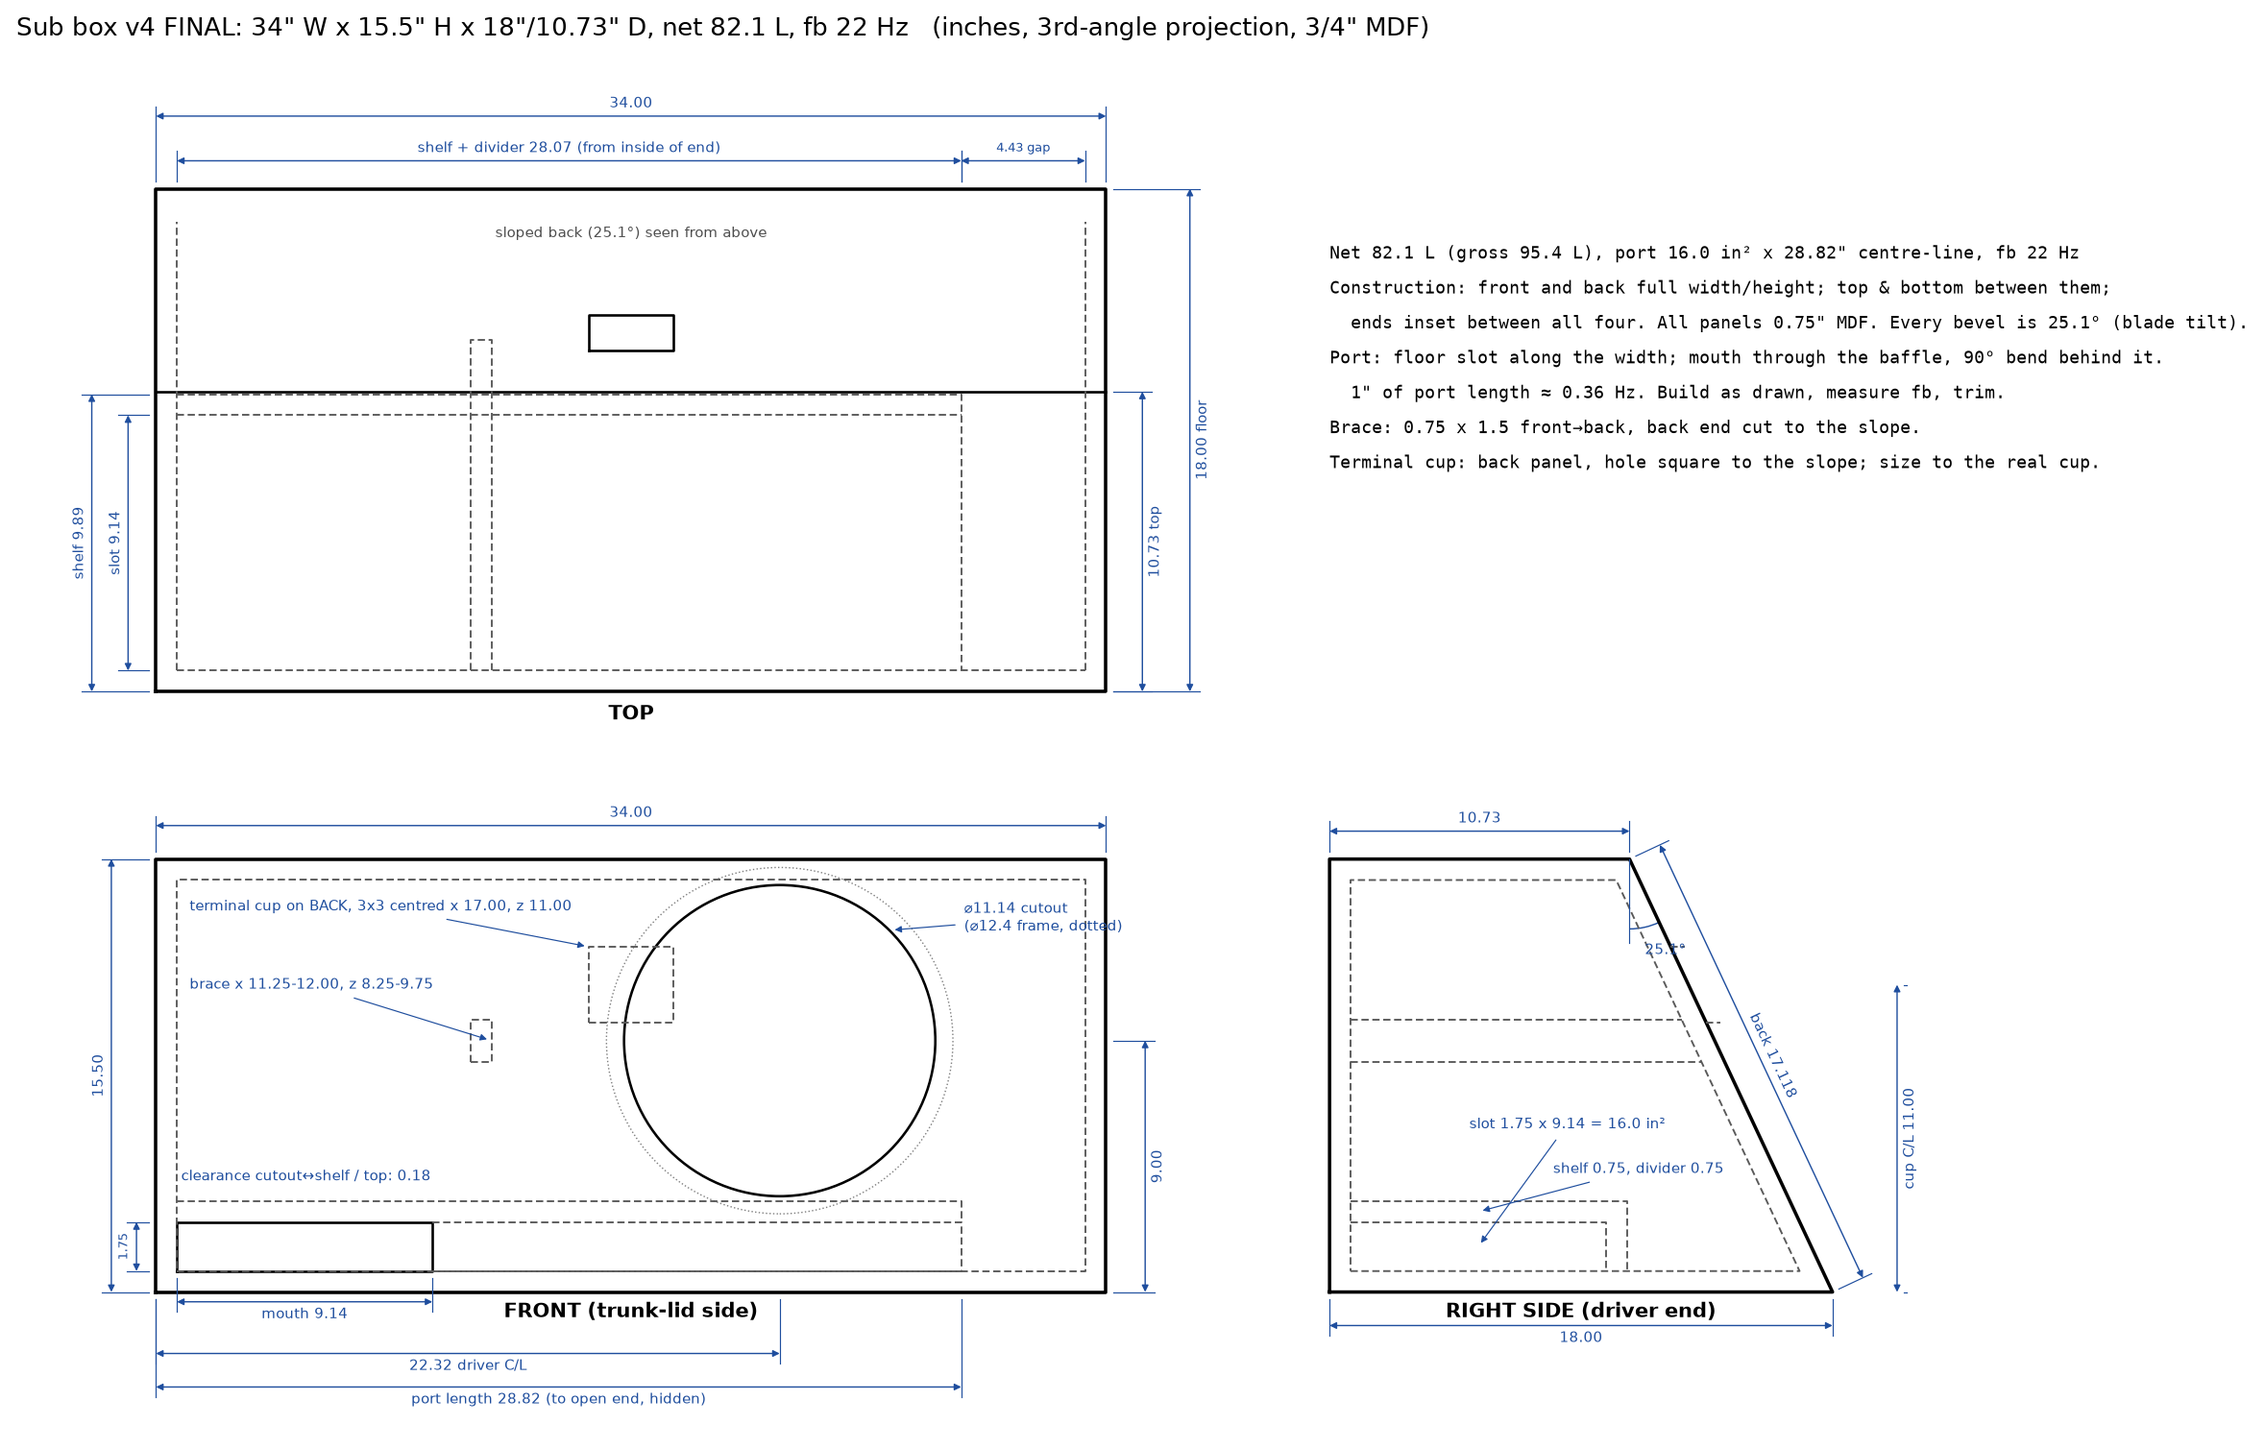
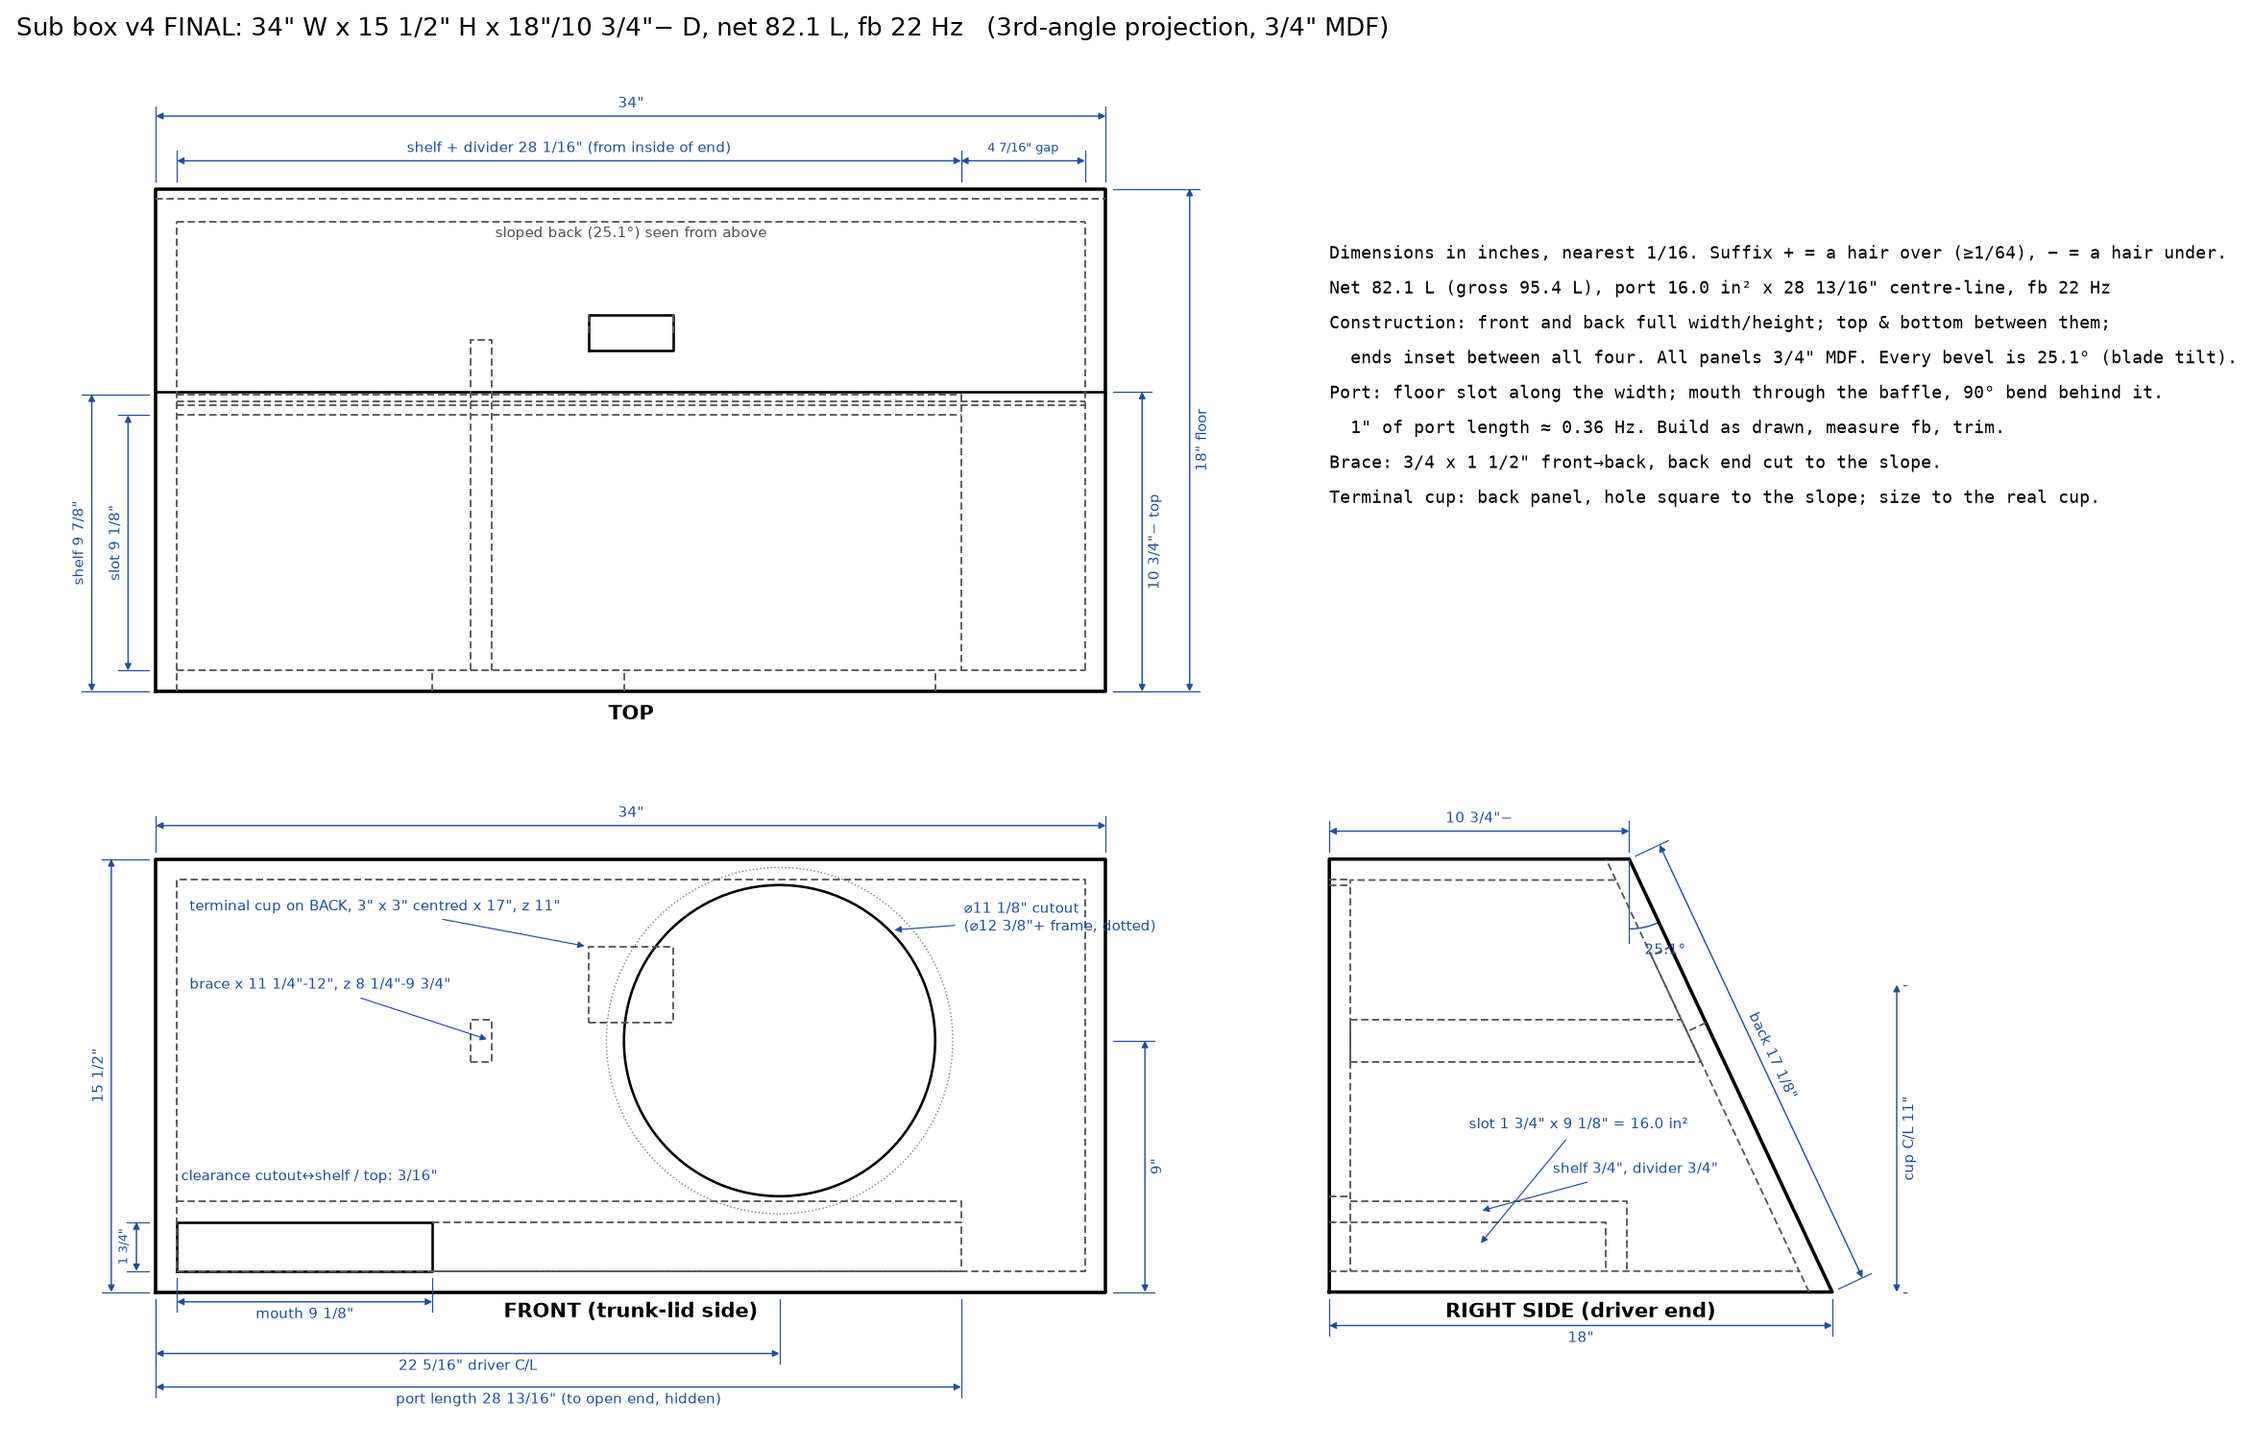
Drawings: fractional inches (nearest 1/16, +/- flags), more hidden lines

diff --git a/box_drawing.py b/box_drawing.py
@@ -3,9 +3,9 @@
 
     python3 box_drawing.py   -> cad/box_v4_34x15.5in_ortho.{png,pdf}  (3rd-angle: front, top, right side)
                                 cad/box_v4_34x15.5in_parts.{png,pdf}  (every cut part, dimensioned)
-Inches. Hidden edges dashed. Front view = trunk-lid side, x = 0 at the port-mouth end (left).
+Inches as fractions (nearest 1/16, +/- flags >= 1/64 rounding). Hidden edges dashed. Front view = trunk-lid side, x = 0 at the port-mouth end (left).
 """
-import importlib.util, math, os
+import importlib.util, math, os, re
 import matplotlib; matplotlib.use('Agg')
 import matplotlib.pyplot as plt
 from matplotlib.patches import Circle, Arc
@@ -39,9 +39,21 @@ def dim(ax, a, b, off, txt=None, fs=FS):
     ax.annotate('', p, q, arrowprops=dict(arrowstyle='<|-|>', color=DIM, lw=0.6, mutation_scale=6, shrinkA=0, shrinkB=0))
     ang = math.degrees(math.atan2(uy, ux))
     if ang > 90.1 or ang < -89.9: ang -= 180
-    t = txt or f'{L:.2f}'
+    t = txt or f'{fr(L)}'
     ax.text((p[0]+q[0])/2 + nx*0.45*s, (p[1]+q[1])/2 + ny*0.45*s, t, rotation=ang, color=DIM, fontsize=fs,
             ha='center', va='center', bbox=dict(fc='white', ec='none', pad=0.3))
+
+def fr(v, den=16):
+    """Inches as a fraction to the nearest 1/16, with + / - if the true value is >= 1/64 off."""
+    n = round(v * den); err = v - n / den
+    w, r = divmod(abs(n), den); dd = den
+    while r and r % 2 == 0: r //= 2; dd //= 2
+    s = ('-' if n < 0 else '') + (f'{w} {r}/{dd}' if w and r else f'{r}/{dd}' if r else f'{w}') + '"'
+    return s + ('+' if err >= 1/64 else '−' if err <= -1/64 else '')
+
+def F(text):
+    """Convert the decimal inch numbers (2+ decimals) in a note to fractions."""
+    return re.sub(r'\d+\.\d{2,}', lambda m: fr(float(m.group())), text)
 
 def note(ax, xy, xyt, txt, fs=FS):
     ax.annotate(txt, xy, xyt, color=DIM, fontsize=fs, ha='left', va='center',
@@ -55,8 +67,8 @@ def setup(ax, title):
 # ---------------------------------------------------------------- orthographic sheet
 def ortho():
     fig, ax = plt.subplots(figsize=(17, 11))
-    setup(ax, f'Sub box v4 FINAL: {W:g}" W x {H:g}" H x {g.D_BOT:g}"/{g.D_TOP:.2f}" D, net {d["net_L"]:.1f} L, '
-              f'fb {g.FB:g} Hz   (inches, 3rd-angle projection, 3/4" MDF)')
+    setup(ax, f'Sub box v4 FINAL: {fr(W)} W x {fr(H)} H x {fr(g.D_BOT)}/{fr(g.D_TOP)} D, net {d["net_L"]:.1f} L, '
+              f'fb {g.FB:g} Hz   (3rd-angle projection, 3/4" MDF)')
     tz = (g.TERM[1] / 2) * math.cos(TH)                     # half-height of the cup hole, projected vertically
     cz0, cz1 = g.TERM_Z - tz, g.TERM_Z + tz
     cx0, cx1 = W/2 - g.TERM[0]/2, W/2 + g.TERM[0]/2
@@ -75,16 +87,16 @@ def ortho():
     ax.text(W/2, -0.9, 'FRONT (trunk-lid side)', ha='center', fontsize=9, weight='bold')
     dim(ax, (0, H), (W, H), 1.2)
     dim(ax, (0, 0), (0, H), 1.6)
-    dim(ax, (0, 0), (DX, 0), -2.2, f'{DX:.2f} driver C/L')
-    dim(ax, (W, 0), (W, DZ), -1.4, f'{DZ:.2f}')
-    dim(ax, (T, T), (T + CW, T), -1.1, f'mouth {CW:.2f}')
-    dim(ax, (0, T), (0, T + CH), 0.7, f'{CH:.2f}', fs=5.5)
-    dim(ax, (0, 0), (XE, 0), -3.4, f'port length {XE:.2f} (to open end, hidden)')
+    dim(ax, (0, 0), (DX, 0), -2.2, f'{fr(DX)} driver C/L')
+    dim(ax, (W, 0), (W, DZ), -1.4, f'{fr(DZ)}')
+    dim(ax, (T, T), (T + CW, T), -1.1, f'mouth {fr(CW)}')
+    dim(ax, (0, T), (0, T + CH), 0.7, f'{fr(CH)}', fs=5.5)
+    dim(ax, (0, 0), (XE, 0), -3.4, f'port length {fr(XE)} (to open end, hidden)')
     note(ax, (DX + g.DRV_CUT/2*0.71, DZ + g.DRV_CUT/2*0.71), (DX + 6.6, DZ + 4.4),
-         f'⌀{g.DRV_CUT:.2f} cutout\n(⌀{g.DRV_OD:.1f} frame, dotted)')
-    note(ax, (bx1, (bz0 + bz1)/2), (1.2, 11.0), f'brace x {bx0:.2f}-{bx1:.2f}, z {bz0:.2f}-{bz1:.2f}')
-    note(ax, (cx0, cz1), (1.2, 13.8), f'terminal cup on BACK, {g.TERM[0]:.0f}x{g.TERM[1]:.0f} centred x {W/2:.2f}, z {g.TERM_Z:.2f}')
-    ax.text(0.9, 4.0, f'clearance cutout↔shelf / top: {((H - T) - (T + CH + T) - g.DRV_CUT)/2:.2f}', fontsize=FS, color=DIM)
+         f'⌀{fr(g.DRV_CUT)} cutout\n(⌀{fr(g.DRV_OD)} frame, dotted)')
+    note(ax, (bx1, (bz0 + bz1)/2), (1.2, 11.0), f'brace x {fr(bx0)}-{fr(bx1)}, z {fr(bz0)}-{fr(bz1)}')
+    note(ax, (cx0, cz1), (1.2, 13.8), f'terminal cup on BACK, {fr(g.TERM[0])} x {fr(g.TERM[1])} centred x {fr(W/2)}, z {fr(g.TERM_Z)}')
+    ax.text(0.9, 4.0, f'clearance cutout↔shelf / top: {fr(((H - T) - (T + CH + T) - g.DRV_CUT)/2)}', fontsize=FS, color=DIM)
 
     # ---- TOP view (x, y) above the front view, front edge nearest it
     oy = H + 6.0
@@ -97,14 +109,23 @@ def ortho():
     line(ax, [T_(T, T + CW), T_(XE, T + CW)], hidden=True)
     line(ax, [T_(bx0, T), T_(bx0, yi(bz1)), T_(bx1, yi(bz1)), T_(bx1, T)], hidden=True)
     line(ax, [T_(cx0, yo(cz1)), T_(cx1, yo(cz1)), T_(cx1, yo(cz0)), T_(cx0, yo(cz0))], close=True)   # cup on the slope
+    line(ax, [T_(T, 0), T_(T, T)], hidden=True); line(ax, [T_(T + CW, 0), T_(T + CW, T)], hidden=True)        # mouth through the baffle
+    line(ax, [T_(DX - g.DRV_CUT/2, 0), T_(DX - g.DRV_CUT/2, T)], hidden=True)                                    # driver cutout
+    line(ax, [T_(DX + g.DRV_CUT/2, 0), T_(DX + g.DRV_CUT/2, T)], hidden=True)
+    line(ax, [T_(T, yi(H - T)), T_(W - T, yi(H - T))], hidden=True)                                             # back inner face at the top panel
+    line(ax, [T_(T, yi(T)), T_(W - T, yi(T))], hidden=True)                                                     # back inner face at the floor
+    line(ax, [T_(T, g.D_TOP - T*math.tan(TH)), T_(W - T, g.D_TOP - T*math.tan(TH))], hidden=True)              # top panel underside edge
+    line(ax, [T_(0, yo(T)), T_(W, yo(T))], hidden=True)                                                          # bottom panel / back joint
+    for xx in (cx0, cx1):                                                                                         # cup hole walls through the back
+        line(ax, [T_(xx, yo(cz0)), T_(xx, yo(cz0) - T*math.cos(TH))], hidden=True)
     ax.text(W/2, oy - 1.0, 'TOP', ha='center', fontsize=9, weight='bold')
     ax.text(W/2, oy + (g.D_TOP + g.D_BOT)/2 + 1.9, 'sloped back (25.1°) seen from above', ha='center', fontsize=FS, color='0.3')
-    dim(ax, T_(W, 0), T_(W, g.D_TOP), -1.3, f'{g.D_TOP:.2f} top')
-    dim(ax, T_(W, 0), T_(W, g.D_BOT), -3.0, f'{g.D_BOT:.2f} floor')
-    dim(ax, T_(0, T), T_(0, T + CW), 1.0, f'slot {CW:.2f}')
-    dim(ax, T_(0, 0), T_(0, T + CW + T), 2.3, f'shelf {CW + T:.2f}')
-    dim(ax, T_(T, g.D_BOT), T_(XE, g.D_BOT), 1.0, f'shelf + divider {XE - T:.2f} (from inside of end)')
-    dim(ax, T_(XE, g.D_BOT), T_(W - T, g.D_BOT), 1.0, f'{W - T - XE:.2f} gap', fs=5.5)
+    dim(ax, T_(W, 0), T_(W, g.D_TOP), -1.3, f'{fr(g.D_TOP)} top')
+    dim(ax, T_(W, 0), T_(W, g.D_BOT), -3.0, f'{fr(g.D_BOT)} floor')
+    dim(ax, T_(0, T), T_(0, T + CW), 1.0, f'slot {fr(CW)}')
+    dim(ax, T_(0, 0), T_(0, T + CW + T), 2.3, f'shelf {fr(CW + T)}')
+    dim(ax, T_(T, g.D_BOT), T_(XE, g.D_BOT), 1.0, f'shelf + divider {fr(XE - T)} (from inside of end)')
+    dim(ax, T_(XE, g.D_BOT), T_(W - T, g.D_BOT), 1.0, f'{fr(W - T - XE)} gap', fs=5.5)
     dim(ax, T_(0, g.D_BOT), T_(W, g.D_BOT), 2.6)
 
     # ---- RIGHT SIDE view (y, z), seen from the x = W end, front face nearest the front view
@@ -115,26 +136,37 @@ def ortho():
     line(ax, [S(T, T + CH), S(T + CW, T + CH), S(T + CW, T)], hidden=True)                   # slot section
     line(ax, [S(T, T + CH + T), S(T + CW + T, T + CH + T), S(T + CW + T, T)], hidden=True)   # shelf + divider
     line(ax, [S(T, bz0), S(yi(bz0), bz0)], hidden=True); line(ax, [S(T, bz1), S(yi(bz1), bz1)], hidden=True)
-    line(ax, [S(yo(cz0), cz0), S(yo(cz0) + 0.5, cz0)], hidden=True); line(ax, [S(yo(cz1), cz1), S(yo(cz1) + 0.5, cz1)], hidden=True)
+    n_, u_ = (math.cos(TH), math.sin(TH)), (-math.sin(TH), math.cos(TH))                 # back-face normal / along-slope
+    oc = (yo(g.TERM_Z), g.TERM_Z); hh = g.TERM[1] / 2
+    cup = [(oc[0] + a*u_[0] - b*n_[0], oc[1] + a*u_[1] - b*n_[1]) for a, b in ((-hh, 0), (-hh, T), (hh, T), (hh, 0))]
+    line(ax, [S(*p) for p in cup], hidden=True)                                            # cup hole through the back
+    line(ax, [S(0, DZ - g.DRV_CUT/2), S(T, DZ - g.DRV_CUT/2)], hidden=True)                # driver cutout through the baffle
+    line(ax, [S(0, DZ + g.DRV_CUT/2), S(T, DZ + g.DRV_CUT/2)], hidden=True)
+    line(ax, [S(0, T + CH), S(T, T + CH)], hidden=True)                                    # mouth through the baffle
+    line(ax, [S(0, T), S(T, T)], hidden=True); line(ax, [S(0, H - T), S(T, H - T)], hidden=True)   # top/bottom vs baffle joints
+    line(ax, [S(yi(0), 0), S(yi(T), T)], hidden=True)                                      # bottom-panel bevel against the back
+    line(ax, [S(yi(H - T), H - T), S(yi(H), H)], hidden=True)                              # top-panel bevel against the back
+    line(ax, [S(T, bz0), S(T, bz1)], hidden=True); line(ax, [S(yi(bz0), bz0), S(yi(bz1), bz1)], hidden=True)   # brace ends
     ax.text(ox + g.D_BOT/2, -0.9, 'RIGHT SIDE (driver end)', ha='center', fontsize=9, weight='bold')
     dim(ax, S(0, 0), S(g.D_BOT, 0), -1.2)
     dim(ax, S(0, H), S(g.D_TOP, H), 1.0)
-    dim(ax, S(g.D_BOT, 0), S(g.D_TOP, H), -1.2, f'back {math.hypot(g.D_BOT - g.D_TOP, H):.3f}')
-    dim(ax, S(g.D_BOT + 2.3, 0), S(g.D_BOT + 2.3, g.TERM_Z), -0.01, f'cup C/L {g.TERM_Z:.2f}')
+    dim(ax, S(g.D_BOT, 0), S(g.D_TOP, H), -1.2, f'back {fr(math.hypot(g.D_BOT - g.D_TOP, H))}')
+    dim(ax, S(g.D_BOT + 2.3, 0), S(g.D_BOT + 2.3, g.TERM_Z), -0.01, f'cup C/L {fr(g.TERM_Z)}')
     ax.add_patch(Arc(S(g.D_TOP, H), 5, 5, theta1=270, theta2=270 + math.degrees(TH), color=DIM, lw=0.6))
     ax.plot([ox + g.D_TOP, ox + g.D_TOP], [H, H - 3.0], color=DIM, lw=0.5)
     ax.text(ox + g.D_TOP + 0.55, H - 3.4, f'{math.degrees(TH):.1f}°', color=DIM, fontsize=FS)
-    note(ax, S(T + CW/2, T + CH/2), S(5.0, 6.0), f'slot {CH:.2f} x {CW:.2f} = {CH*CW:.1f} in²')
-    note(ax, S(T + CW/2, T + CH + T/2), S(8.0, 4.4), f'shelf {T:.2f}, divider {T:.2f}')
+    note(ax, S(T + CW/2, T + CH/2), S(5.0, 6.0), f'slot {fr(CH)} x {fr(CW)} = {CH*CW:.1f} in²')
+    note(ax, S(T + CW/2, T + CH + T/2), S(8.0, 4.4), f'shelf {fr(T)}, divider {fr(T)}')
 
     # ---- notes
     nx, ny = W + 8.0, H + 6.0
-    lines = [f'Net {d["net_L"]:.1f} L (gross {d["gross_L"]:.1f} L), port {CH*CW:.1f} in² x {XE:.2f}" centre-line, fb {g.FB:g} Hz',
+    lines = ['Dimensions in inches, nearest 1/16. Suffix + = a hair over (≥1/64), − = a hair under.',
+             f'Net {d["net_L"]:.1f} L (gross {d["gross_L"]:.1f} L), port {CH*CW:.1f} in² x {fr(XE)} centre-line, fb {g.FB:g} Hz',
              'Construction: front and back full width/height; top & bottom between them;',
-             '  ends inset between all four. All panels 0.75" MDF. Every bevel is 25.1° (blade tilt).',
+             '  ends inset between all four. All panels 3/4" MDF. Every bevel is 25.1° (blade tilt).',
              'Port: floor slot along the width; mouth through the baffle, 90° bend behind it.',
              '  1" of port length ≈ 0.36 Hz. Build as drawn, measure fb, trim.',
-             f'Brace: 0.75 x {g.BRACE_H} front→back, back end cut to the slope.',
+             f'Brace: 3/4 x {fr(g.BRACE_H)} front→back, back end cut to the slope.',
              'Terminal cup: back panel, hole square to the slope; size to the real cup.']
     for i, s in enumerate(lines):
         ax.text(nx, ny + 15.5 - i*1.25, s, fontsize=7.5, family='monospace')
@@ -145,7 +177,7 @@ def ortho():
 def parts():
     P = g.panels(d)
     fig, ax = plt.subplots(figsize=(14, 17))
-    setup(ax, 'Cut parts, 3/4" MDF, inches. Polygons are the larger face; dashed green = bevel edge on the other face')
+    setup(ax, 'Cut parts, 3/4" MDF, inches to the nearest 1/16 (+ / − = a hair over / under). Polygons are the larger face; dashed green = bevel edge on the other face')
     col1, col2 = ['FRONT baffle', 'BACK', 'BOTTOM', 'TOP'], ['END', 'PORT SHELF', 'PORT DIVIDER', 'BRACE']
     for col, x0 in ((col1, 0.0), (col2, W + 12.0)):
         y = 0.0
@@ -156,7 +188,7 @@ def parts():
             Q = [(x0 + u, y + v) for u, v in poly]
             line(ax, Q, close=True, lw=1.4)
             ax.text(x0, y + ph + 3.2, f'{nm} x{qty}', fontsize=9, weight='bold')
-            ax.text(x0, y + ph + 2.3, nt, fontsize=6, color='0.3')
+            ax.text(x0, y + ph + 2.3, F(nt), fontsize=6, color='0.3')
             dim(ax, (x0, y), (x0 + pw, y), -1.1)
             dim(ax, (x0, y), (x0, y + ph), 1.1 if ph > 3 else 1.6)
             if name in ('END', 'BRACE'):                                         # non-rectangular: top edge too
@@ -165,22 +197,22 @@ def parts():
             if bevel:
                 line(ax, [(x0, y + bevel[1]), (x0 + pw, y + bevel[1])], c='g', lw=0.7)
                 ax.plot([x0, x0 + pw], [y + bevel[1]] * 2, color='g', lw=0.8, ls=(0, (4, 2)))
-                dim(ax, (x0 + pw, y), (x0 + pw, y + bevel[1]), -1.1, f'{bevel[1]:.3f} top face')
+                dim(ax, (x0 + pw, y), (x0 + pw, y + bevel[1]), -1.1, f'{fr(bevel[1])} top face')
             k = 0
             for h in holes:
                 if h[0] == 'rect':
                     _, u0, v0, u1, v1, lab = h
                     line(ax, rect(x0 + u0, y + v0, x0 + u1, y + v1), close=True, c='r')
-                    ax.text(x0 + (u0 + u1)/2, y + v1 + 0.5, f'{lab}  {u1-u0:.2f} x {v1-v0:.2f}', fontsize=FS, color='r', ha='center')
-                    dim(ax, (x0, y + v1 + 1.6 + k), (x0 + u0, y + v1 + 1.6 + k), 0.0001, f'{u0:.2f}', fs=5.5)
-                    dim(ax, (x0 + u1 + 0.8, y), (x0 + u1 + 0.8, y + v0), -0.0001, f'{v0:.2f}', fs=5.5)
+                    ax.text(x0 + (u0 + u1)/2, y + v1 + 0.5, f'{lab}  {fr(u1-u0)} x {fr(v1-v0)}', fontsize=FS, color='r', ha='center')
+                    dim(ax, (x0, y + v1 + 1.6 + k), (x0 + u0, y + v1 + 1.6 + k), 0.0001, f'{fr(u0)}', fs=5.5)
+                    dim(ax, (x0 + u1 + 0.8, y), (x0 + u1 + 0.8, y + v0), -0.0001, f'{fr(v0)}', fs=5.5)
                 else:
                     _, cu, cv, r, lab = h
                     ax.add_patch(Circle((x0 + cu, y + cv), r, fill=False, color='r', lw=1))
                     ax.plot([x0 + cu - 0.4, x0 + cu + 0.4], [y + cv]*2, 'r', lw=0.5); ax.plot([x0 + cu]*2, [y + cv - 0.4, y + cv + 0.4], 'r', lw=0.5)
-                    dim(ax, (x0, y + cv), (x0 + cu, y + cv), 0.0001, f'{cu:.2f}', fs=5.5)
-                    dim(ax, (x0 + cu, y), (x0 + cu, y + cv), -0.0001, f'{cv:.2f}', fs=5.5)
-                    ax.text(x0 + cu + r*0.75, y + cv + r*0.75, f'⌀{2*r:.2f}', color='r', fontsize=FS)
+                    dim(ax, (x0, y + cv), (x0 + cu, y + cv), 0.0001, f'{fr(cu)}', fs=5.5)
+                    dim(ax, (x0 + cu, y), (x0 + cu, y + cv), -0.0001, f'{fr(cv)}', fs=5.5)
+                    ax.text(x0 + cu + r*0.75, y + cv + r*0.75, f'⌀{fr(2*r)}', color='r', fontsize=FS)
                 k += 1
             y -= 6.5
     ax.autoscale(); ax.margins(0.03)
